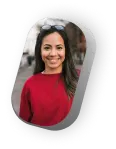
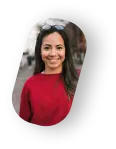
updated accordion images and changed styles to improve display

diff --git a/src/css/accordion.css b/src/css/accordion.css
@@ -48,16 +48,24 @@
 }
 
 .accordion__item-img {
-  display: flex;
-  width: 43px;
-  height: 61px;
+  position: relative;
+  width: 35px;
+  height: 56px;
+  transform: rotate(15deg);
+  border-radius: 13px;
+  background: linear-gradient(180deg, #fff 0%, #606060 100%);
+}
+
+.accordion__item--active .accordion__item-img {
+  background: linear-gradient(180deg, #b982ff 0%, #42068d 100%);
 }
 
 .accordion__item-img img {
-  margin-left: -4px;
-  margin-top: -6px;
-  width: 58px;
-  height: 74px;
+  position: absolute;
+  top: -8px;
+  left: -8px;
+  transform: rotate(-15deg);
+  flex-shrink: 0;
 }
 
 .accordion__item-header-title {
@@ -88,11 +96,11 @@
 }
 
 .accordion__item--active .accordion__item-content {
-  max-height: 1000px;
+  max-height: 525px;
 }
 
 .accordion__item svg {
-  transition: transform 0.3s ease;
+  transition: transform 0.5s ease;
 }
 
 .accordion__item--active svg {

diff --git a/src/partials/accordion.html b/src/partials/accordion.html
@@ -44,10 +44,10 @@
             <div class="accordion__item-img">
               <img
                 srcset="
-                  /img/accordion/img-1.webp    1x,
-                  /img/accordion/img-1@2x.webp 2x
+                  /img/accordion/img-2.webp    1x,
+                  /img/accordion/img-2@2x.webp 2x
                 "
-                src="/img/accordion/img-1.webp"
+                src="/img/accordion/img-2.webp"
                 alt="avatar 1"
               />
             </div>
